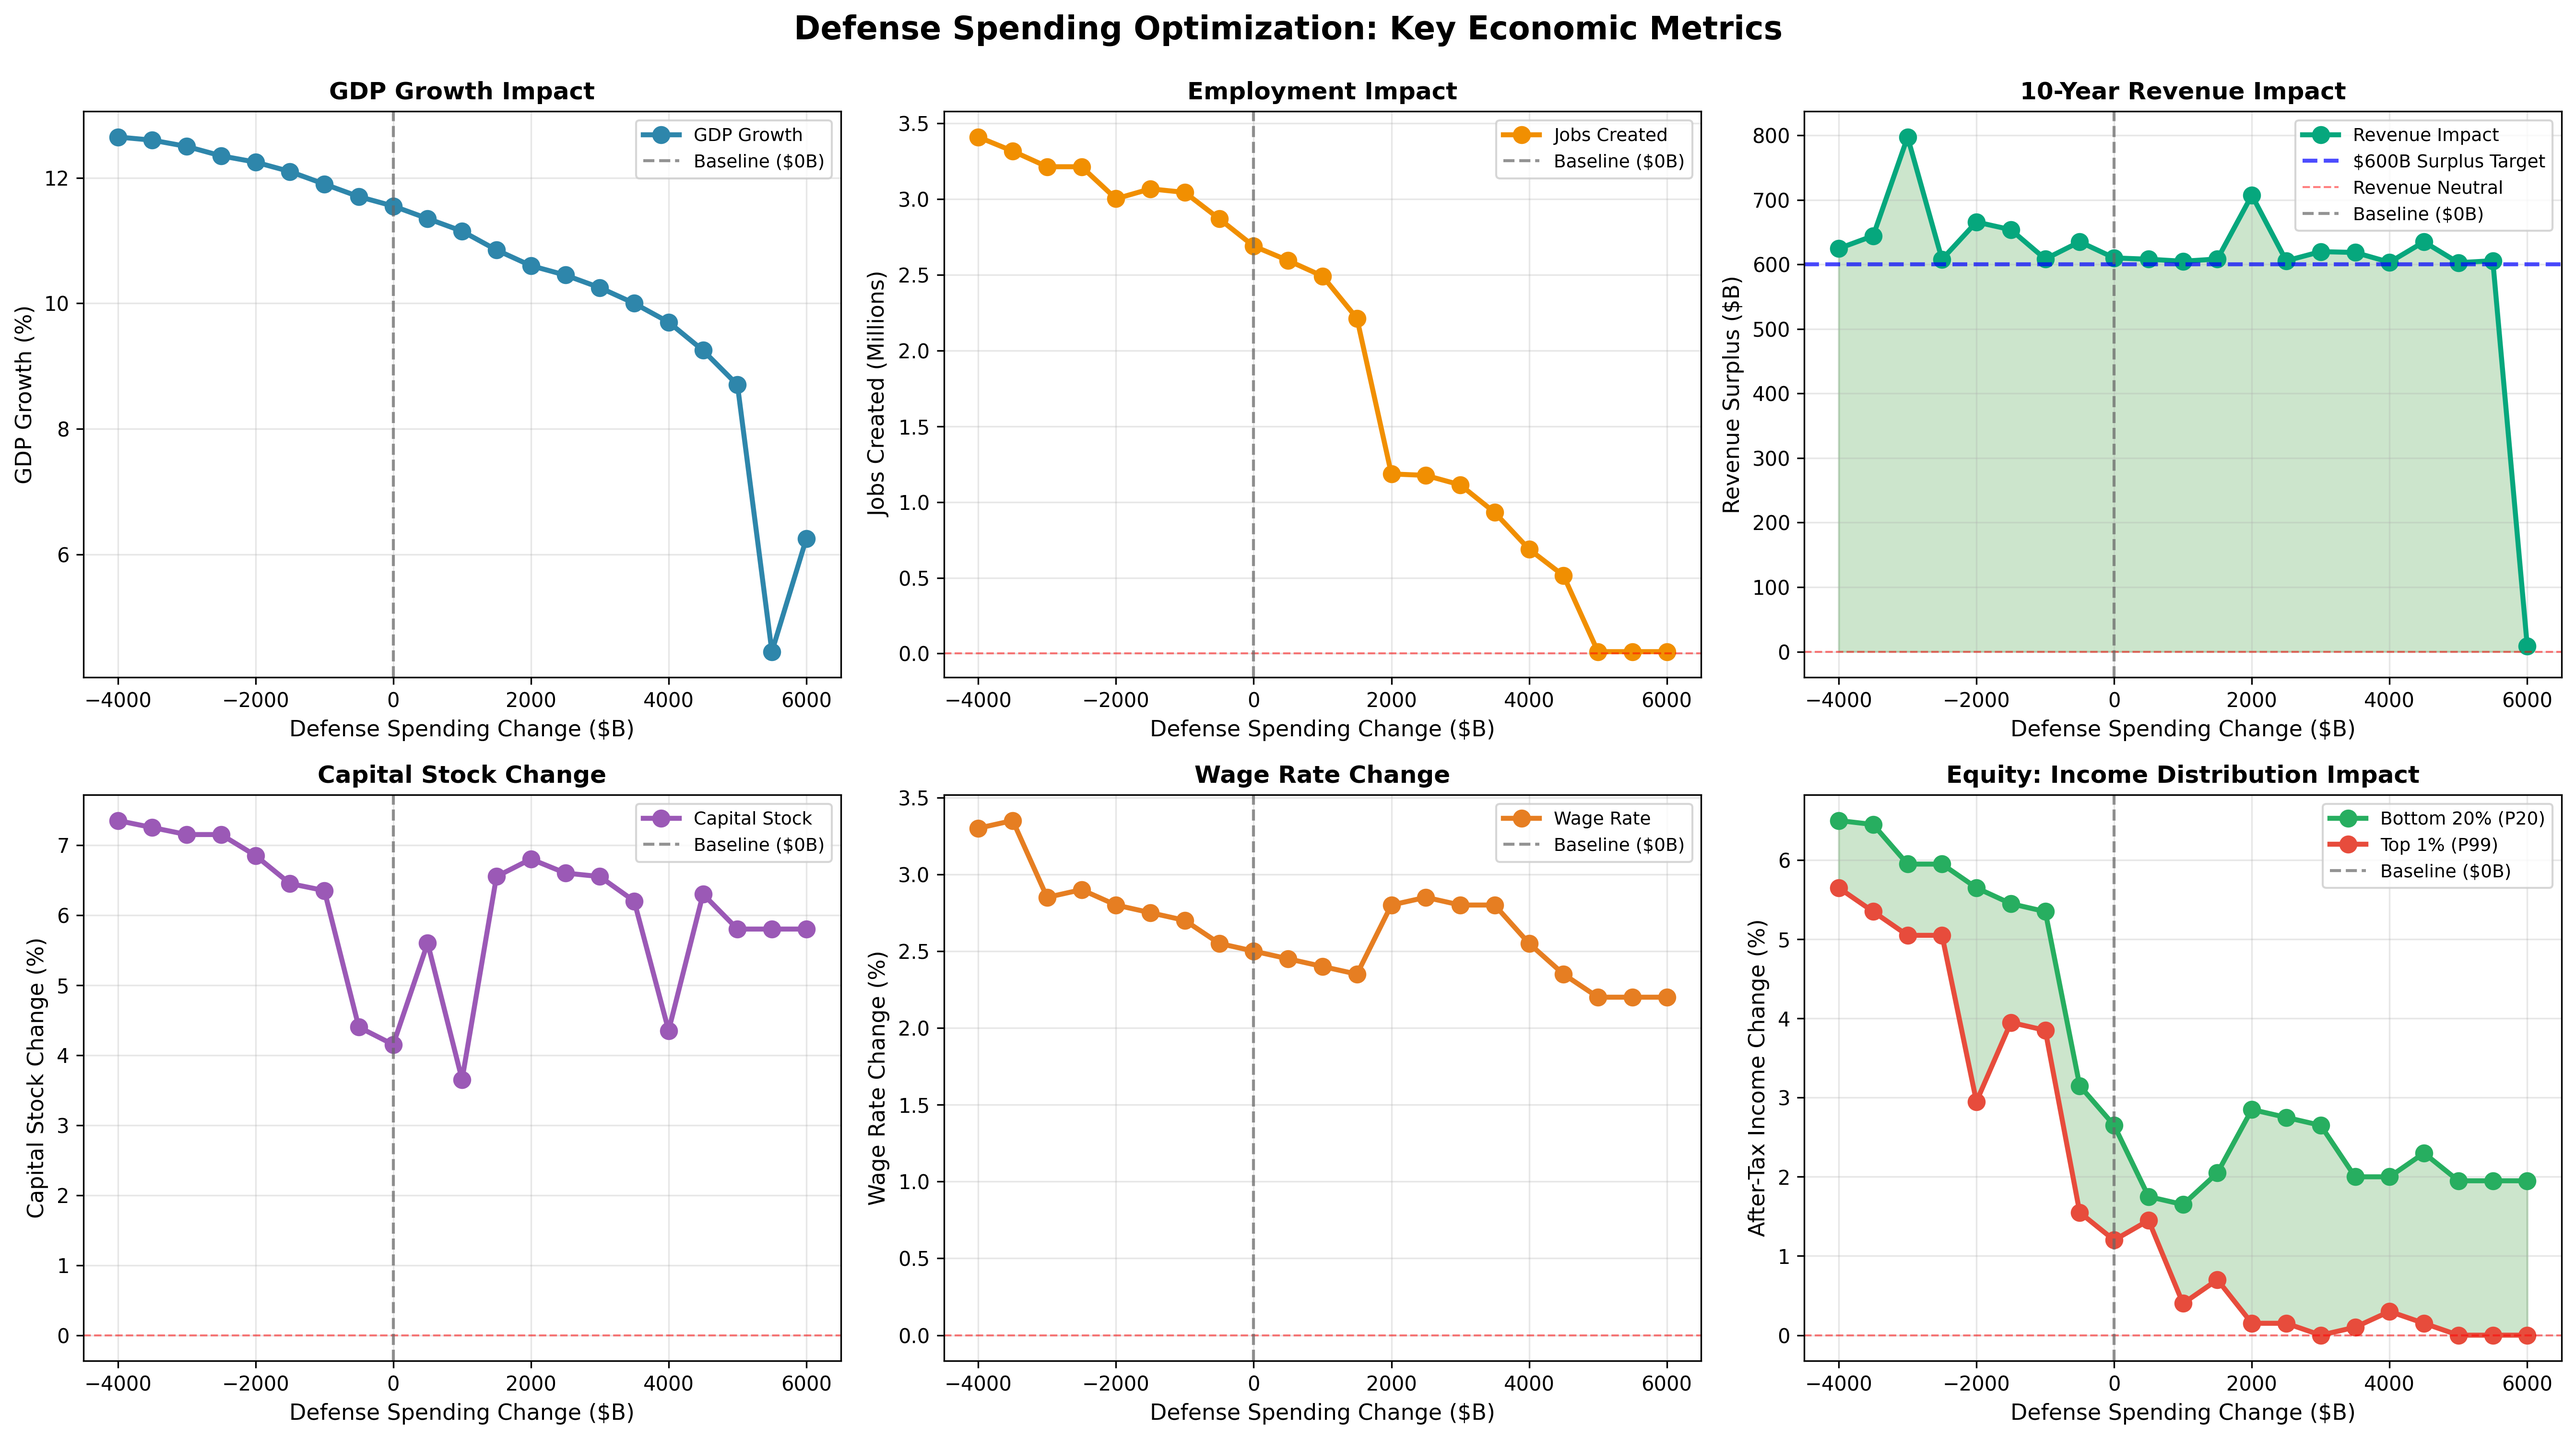
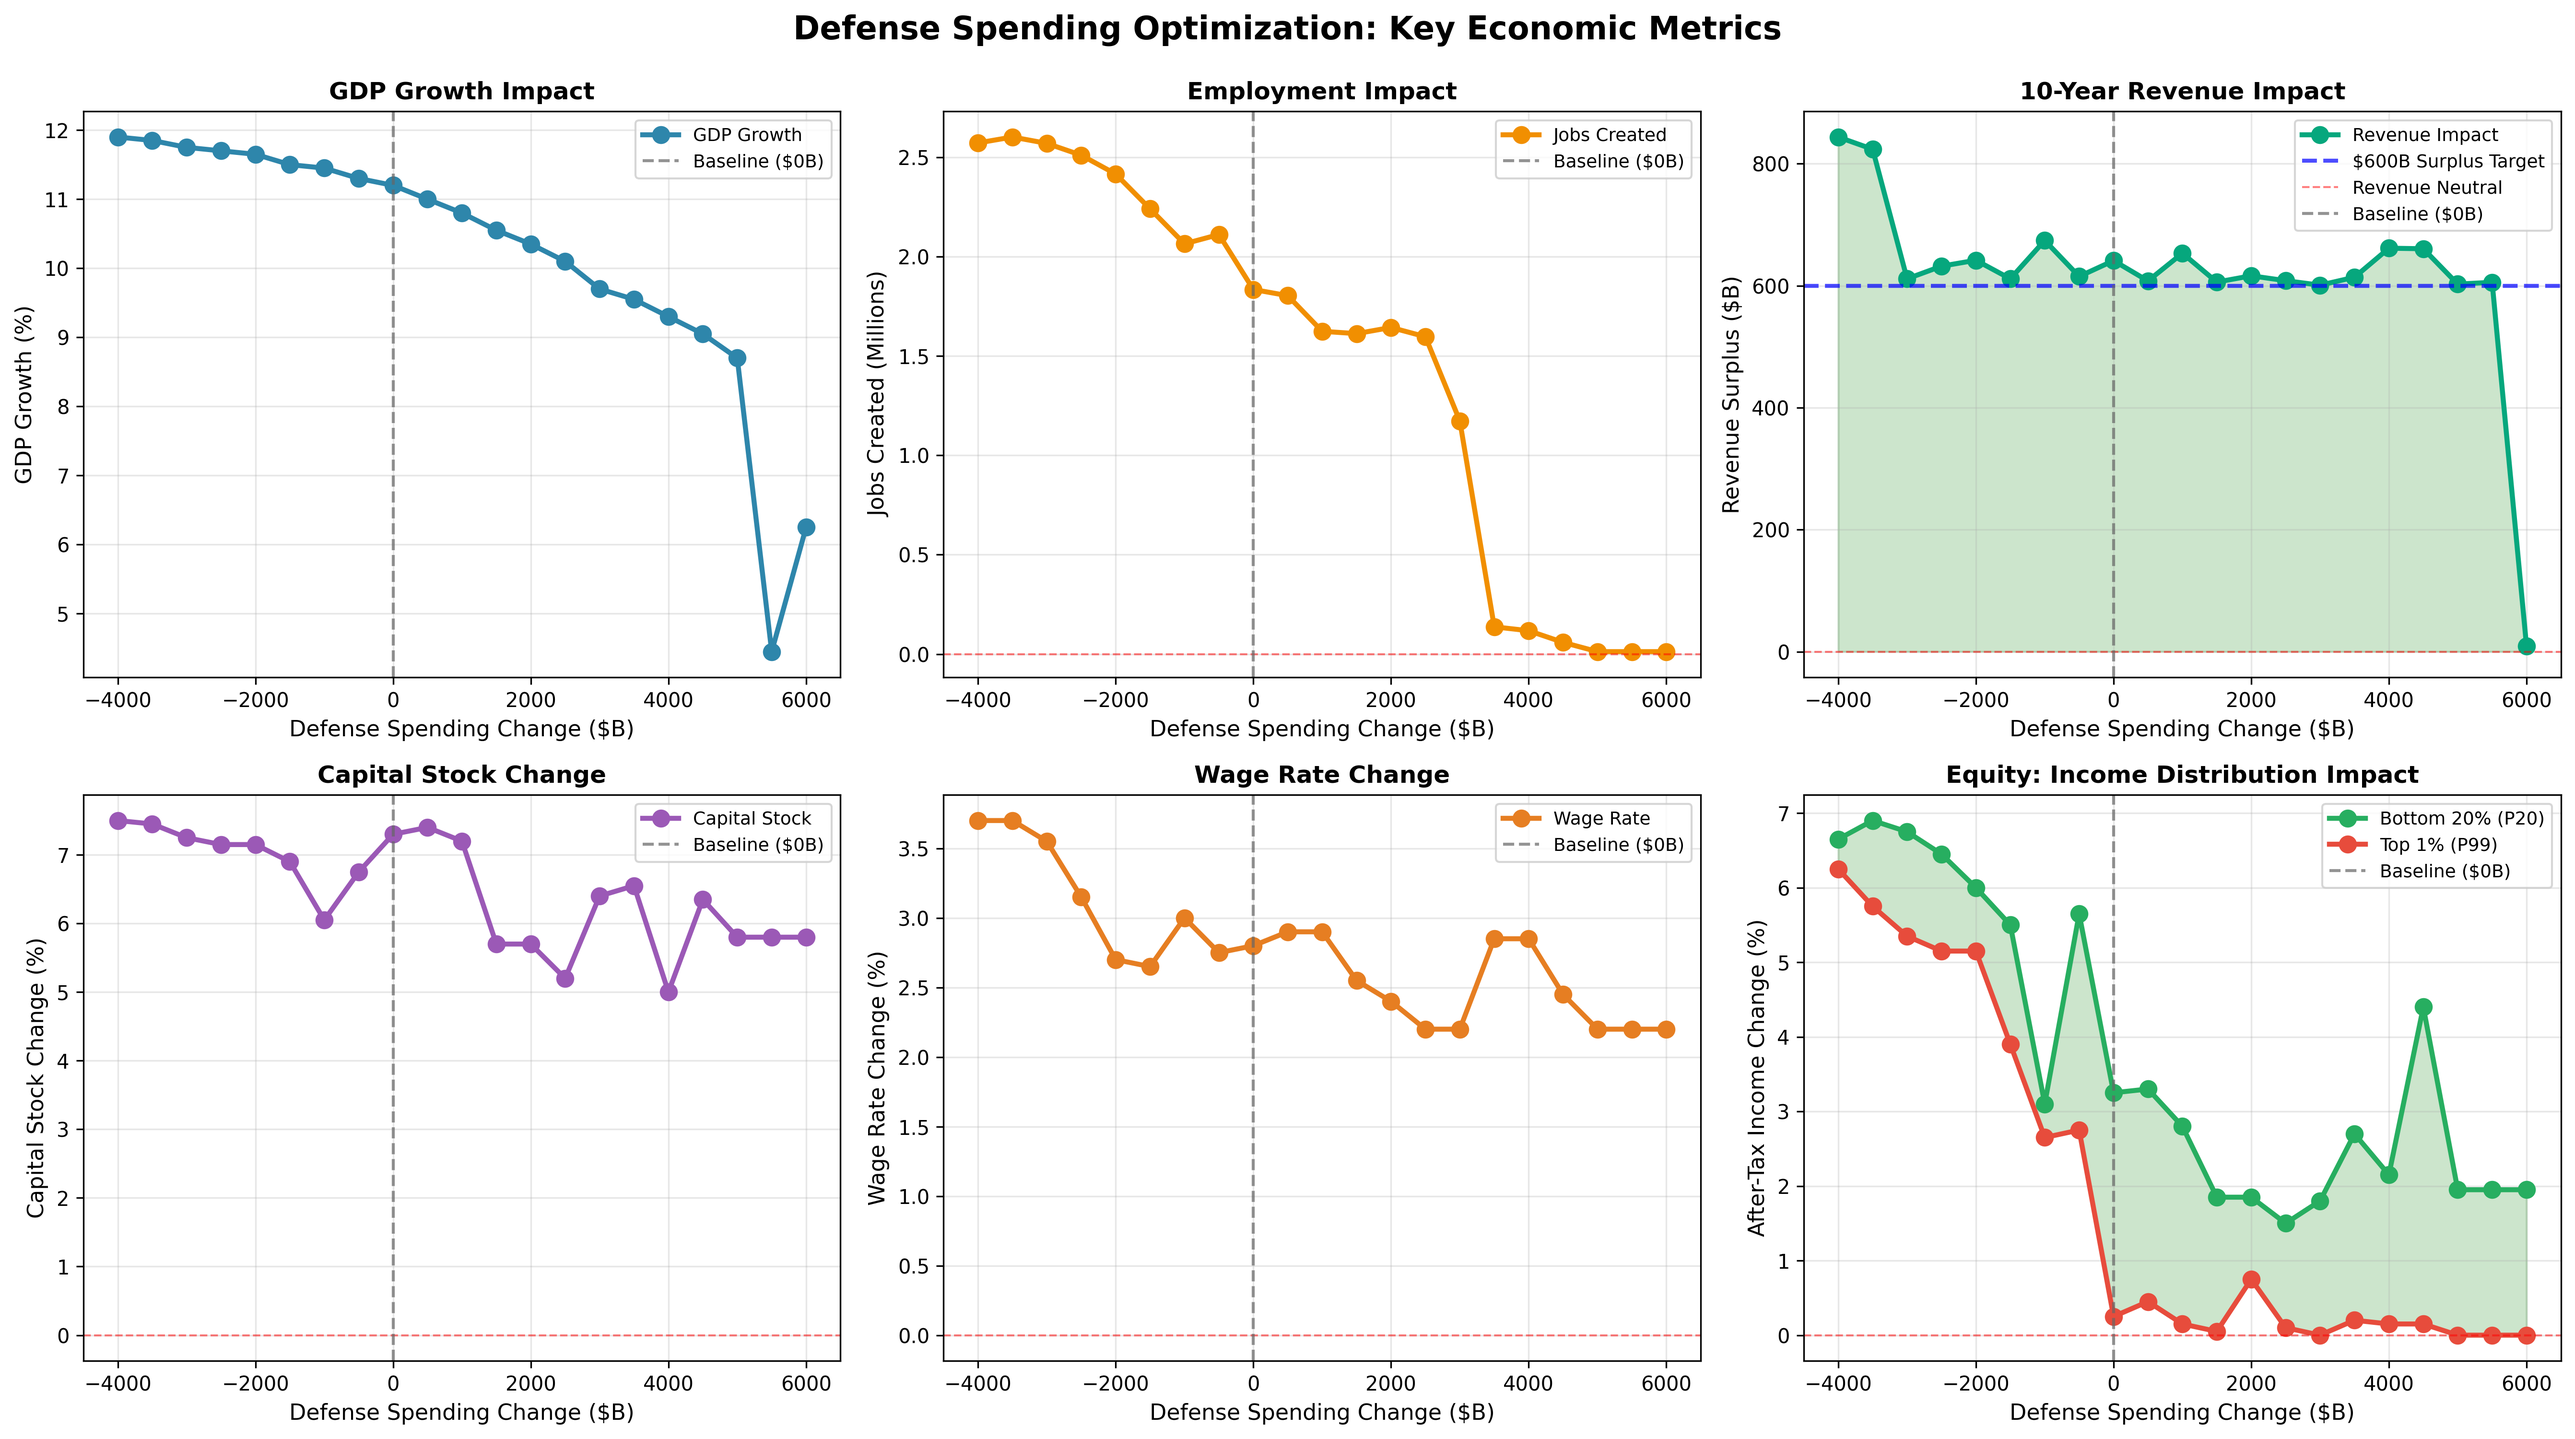
add indiviudal income talk mutal excliviely constraint

diff --git a/max_gdp_defense.py b/max_gdp_defense.py
@@ -129,7 +129,7 @@ def define_policy_groups(df: pd.DataFrame) -> dict[str, list[int]]:
 
     # 8. Individual Income Tax Structure
     policy_groups["individual_tax_structure"] = get_policy_indices_by_codes(
-        df, ["1", "3", "14", "59"]
+        df, ["1", "2", "3", "14", "59"]
     )
 
     # 9. Child Tax Credit - Comprehensive
